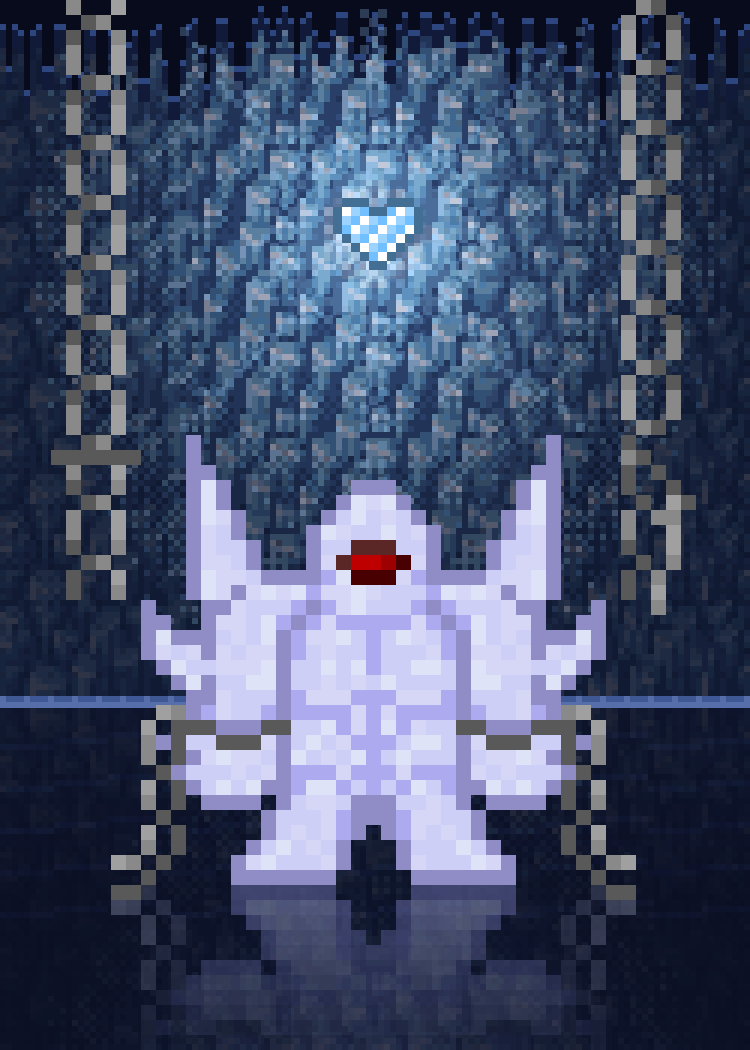
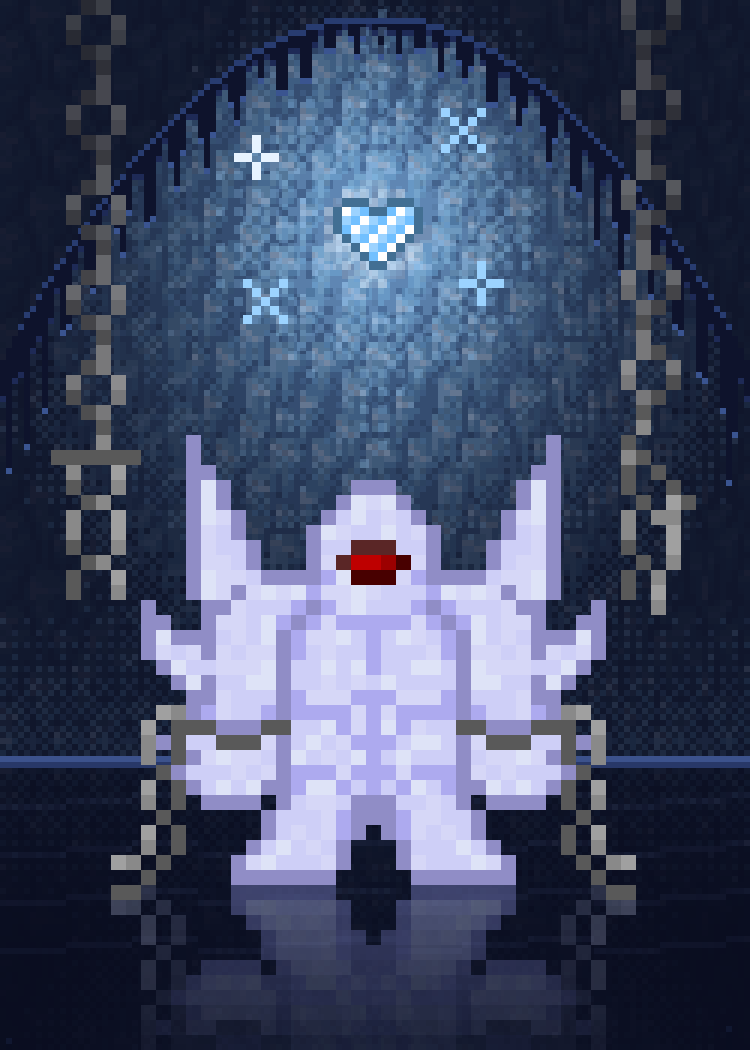
Runde 5: sechs Helden-Sleeves mit Rahmen im Shop
Heartguard (Cool Rescuer Monia), Glacier Vault (Broghan), Vials on the
Vine (Kyli), Stormdraw (Champion), Kitten Escort (Mini), Dolls in the Dark
(Alice) – jeweils die Base-Version, pixelgenau gegen die Kartenszene
geprüft, nach Review überarbeitet.

Claude-Session: https://claude.ai/code/session_01TEnvTzH2xD44R6Unjv7vDo

diff --git a/data/sleeve-proposals/runde5/generator/s02_glacier_vault.py b/data/sleeve-proposals/runde5/generator/s02_glacier_vault.py
@@ -12,12 +12,13 @@ Quellen:
   MotiveGrailWar.xcf  Ebene 476 „Ebene #139“ – Eisfels-Textur (Eisgrate aus derselben Broghan-Szene), senkrecht
                       16-px-periodisch, daraus die Gewölbewand.
   Motive.xcf          Ebene 739 „Heart of Ice“ – das Artefakt (Karte „Heart of Ice“, Sichtbar Ebene 736).
+  MotiveGrailWar.xcf  Ebene 506 „Ebene #390“ – Eisfunkeln (Karte „Iceage“), zwei der Funken-Sprites.
 Selbst gezeichnet: Lichtführung/Verdunklung der Eiswand, Eiszapfen, Spiegeleis-Boden mit Spiegelungen, Lichthof und
-Strahlen des Herzens, Verlängerung der beiden oberen Ketten bis zur Decke (Kettenglieder im Muster der Figur).
+Lichtsäule des Herzens, Verlängerung der beiden oberen Ketten bis zur Decke (Kettenglieder im Muster der Figur).
 
 Skalierung (Tiefenebenen):
   Hintergrund (Eiswand, Eiszapfen, Spiegeleis hinten)       – 2×-Raster (125×175)
-  Mittelgrund (Heart of Ice mit Lichthof und Strahlen)      – 3×-Raster (84×117)
+  Mittelgrund (Heart of Ice, Lichthof, Lichtsäule, Funkeln) – 3×-Raster (84×117)
   Vordergrund (Broghan, Ketten, seine Spiegelung, Boden)    – 5×-Raster (51×71, um 3 px nach links versetzt,
                                                              damit Broghans Symmetrieachse mittig liegt)
 """
@@ -60,66 +61,73 @@ def comp(dst, src_rgba, k, ox=0, oy=0):
 # ================================================================== Hintergrund 2× (125×175)
 W2, H2 = 125, 175
 HX, HY = 62.5, 39.0           # Herzmitte im 2×-Raster (125, 78 im 250er-Raster)
-HOR = 117                     # Horizont: Wand trifft Spiegeleis (y 234)
-T = ice_texture()
+HOR = 126                     # Horizont: Wand trifft Spiegeleis (y 252, auf Hüfthöhe hinter Broghan)
+T = ice_texture().astype(float)
+T = T.mean((0, 1)) + (T - T.mean((0, 1))) * 0.45          # ruhigere Wand: Kontrast der Kristalle gedämpft
 tex = np.tile(T[:, 96:96 + W2], (H2 // 16 + 2, 1, 1))[:H2]
 bg = np.zeros((H2, W2, 4), np.uint8); bg[..., 3] = 255
 
-NAVY = np.array((10, 14, 34))
+NAVY = np.array((9, 12, 30))
+
+
+def arch(x):
+    """Unterkante der Gewölbedecke (Spitzbogen um das Herz)."""
+    t = abs(x + 0.5 - HX) / HX
+    return 4 + 58 * t ** 2.0
 
 
 def light(x, y):
-    d = math.hypot((x + 0.5 - HX) / 1.0, (y + 0.5 - HY) / 1.15)
-    L = max(0.0, 1 - d / 78.0) ** 1.6
-    return L
+    d = math.hypot((x + 0.5 - HX) / 1.0, (y + 0.5 - HY) / 1.25)
+    return max(0.0, 1 - d / 74.0) ** 1.7
 
 
 for y in range(HOR):
     for x in range(W2):
-        L = light(x, y)
-        # untere Wandzone etwas heller (Gegenlicht vom Spiegeleis)
-        L += 0.10 * max(0, (y - 80) / 37)
-        f = 0.16 + 0.95 * L
-        q = math.floor(f * 6 + BAY[y % 4, x % 4] - 0.5) / 6
-        q = min(max(q, 0.12), 1.05)
-        c = tex[y, x].astype(float)
-        col = NAVY * (1 - q) + c * q
+        L = light(x, y) + 0.07 * max(0, (y - 95) / 31)       # Gegenlicht vom Spiegeleis am Wandfuß
+        f = 0.14 + 1.0 * L
+        if y < arch(x): f *= 0.35                             # Decke liegt im Schatten
+        q = math.floor(f * 10 + BAY[y % 4, x % 4] - 0.5) / 10
+        q = min(max(q, 0.10), 1.05)
+        col = NAVY * (1 - q) + tex[y, x] * q
         bg[y, x, :3] = np.clip(col, 0, 255)
 
-# Eiszapfen an der Gewölbedecke (Silhouetten mit heller Kante)
-top = np.zeros(W2, int)
+# Eiszapfen an der Bogenkante (in der Mitte kurz, zu den Seiten länger)
 x = 0
 while x < W2:
-    w = rnd.choice((3, 4, 5, 6))
-    ln = rnd.choice((4, 6, 8, 10, 13)) + (6 if abs(x - 62) > 34 else 0)
+    w = rnd.choice((3, 4, 5))
+    e = arch(x + w / 2)
+    ln = int(3 + e * 0.30 + rnd.choice((0, 2, 4, 7)))
     for i in range(w):
         xx = x + i
         if xx >= W2: break
         t = abs(i - (w - 1) / 2) / (w / 2)
-        top[xx] = int(ln * (1 - t) + 2)
+        yb = int(arch(xx) + ln * (1 - t))
+        for y in range(0, yb):
+            if y >= arch(xx) - 1 or y < arch(xx):
+                if y >= int(arch(xx)) - 1:
+                    bg[y, xx, :3] = (14, 19, 44)
+        if 0 < yb < H2:
+            bg[yb - 1, xx, :3] = (58, 84, 144) if t < 0.5 else (30, 42, 86)   # Glanzspitze
     x += w
-for x in range(W2):
-    for y in range(0, top[x] + 3):
-        bg[y, x, :3] = (8, 11, 28) if y < top[x] else (18, 26, 58)
-    if 0 < top[x] < H2: bg[top[x] - 1, x, :3] = (46, 70, 128)       # Glanzkante
+for x in range(W2):                                           # Bogenkante: feiner Glanzsaum
+    y = int(arch(x)) - 1
+    if 0 <= y < H2 and light(x, y) > 0.05: bg[y, x, :3] = (40, 60, 112)
 
 # Spiegeleis: Wand gespiegelt, abgedunkelt, mit waagerechten Schlieren
 for y in range(HOR, H2):
     k = y - HOR
     sy = HOR - 1 - k
     for x in range(W2):
-        c = bg[max(sy, 0), x, :3].astype(float) if sy >= 0 else NAVY
-        fade = 0.55 - 0.012 * k
-        col = NAVY * (1 - max(fade, 0.18)) + c * max(fade, 0.18)
-        # glatte Bänder
-        if (k + (x // 9) % 3) % 7 == 0 and k < 40: col = col * 1.18
+        c = bg[max(sy, 0), x, :3].astype(float)
+        fade = max(0.5 - 0.011 * k, 0.16)
+        col = NAVY * (1 - fade) + c * fade
+        if (k + (x // 11) % 3) % 8 == 0 and 2 < k < 36: col = col * 1.15 + 4
         bg[y, x, :3] = np.clip(col, 0, 255)
-# Horizontkante: dünner heller Saum (Schneerand am Wandfuß)
+# Wandfuß: dünner Schneesaum, nur im Lichtkegel hell
 for x in range(W2):
     L = light(x, HOR)
-    c = (150, 176, 226) if L > 0.18 else (86, 110, 170)
-    bg[HOR, x, :3] = c
-    bg[HOR - 1, x, :3] = (62, 88, 150) if (x % 4) else c
+    bg[HOR, x, :3] = (118, 146, 204) if L > 0.12 else (60, 82, 140)
+    bg[HOR + 1, x, :3] = (40, 56, 104)
 
 # ================================================================== Mittelgrund 3× (84×117)
 W3, H3 = 84, 117
@@ -131,19 +139,23 @@ for y in range(H3):
         dx, dy = x + 0.5 - hx3, y + 0.5 - hy3
         d = math.hypot(dx, dy * 1.05)
         a = 0.0
-        if d < 15: a = max(a, 0.55 * (1 - d / 15) ** 1.2)
-        # vier weiche Strahlen (diagonal + senkrecht)
-        ang = math.atan2(dy, dx)
-        for base in (math.pi / 2, -math.pi / 2, math.pi / 4, 3 * math.pi / 4, -math.pi / 4, -3 * math.pi / 4):
-            da = abs((ang - base + math.pi) % (2 * math.pi) - math.pi)
-            wdt = 0.07 if base in (math.pi / 2, -math.pi / 2) else 0.05
-            if da < wdt and 6 < d < 34: a = max(a, 0.28 * (1 - d / 34))
+        if d < 19: a = 0.30 * (1 - d / 19) ** 0.8          # weiter Lichthof
+        if d < 9: a = max(a, 0.62 * (1 - d / 9) ** 0.7)     # heller Kern
+        # zwei breite, weiche Lichtbahnen nach oben/unten (Säule aus Kaltlicht)
+        if abs(dx) < 2.2 - d * 0.02 and 8 < d < 30: a = max(a, 0.22 * (1 - d / 30))
         if a <= 0: continue
         q = math.floor(a * 4 + BAY[y % 4, x % 4]) / 4
         if q <= 0: continue
         col = CY1 if d > 6 else CW
         mid[y, x, :3] = col
         mid[y, x, 3] = int(255 * min(q, 0.75))
+# Eisfunkeln um das Herz (Funken-Sprites aus „Iceage“, MotiveGrailWar Ebene 506)
+sparks = parts(compose('MotiveGrailWar', [506]), dil=0)
+plus, cross = sparks[0], sparks[1]
+for (sp, dx, dy, col) in [(plus, -13, -9, CW), (cross, 10, -12, CY1), (plus, 12, 5, CY1), (cross, -12, 7, CY1)]:
+    y0, x0 = int(hy3 + dy - 2), int(hx3 + dx - 2)
+    mm = sp[..., 3] > 0
+    mid[y0:y0 + 5, x0:x0 + 5][mm] = list(col) + [255]
 # Herz selbst
 hy0, hx0 = int(round(hy3 - 4)), int(round(hx3 - 5))
 m = heart[..., 3] > 0
@@ -158,25 +170,30 @@ FEET = BY + 30                        # Sprite-Zeile 29 = Fußsohle, Zeile 30 = 
 
 # Kettenverlängerung nach oben (Glieder im Muster der Figur: Seitenschienen, Einschnürung alle 4 Zeilen)
 B_, C_, D_ = (89, 89, 89), (137, 137, 137), (160, 160, 160)
-LINK = [  # 4 Zeilen, Spalten 0..3 (entspricht Sprite-Spalten 1..4 links oben)
+LINK = [  # von unten nach oben: flaches Glied (Oval, 4 breit) + hochkant stehendes Glied (1 Spalte)
     [None, B_, C_, None],
-    [C_, None, None, D_],
-    [C_, None, None, D_],
     [B_, None, None, C_],
+    [C_, None, None, D_],
+    [None, B_, C_, None],
+    [None, None, C_, None],
+    [None, None, B_, None],
 ]
 
 
-def chain_up(col0, y_bottom, mirror=False):
+def chain_up(col0, y_bottom, mirror=False, start=0):
     for k, y in enumerate(range(y_bottom, -1, -1)):
-        row = LINK[k % 4]
+        row = LINK[(k + start) % 6]
         if mirror: row = row[::-1]
+        # nach oben ins Dunkel des Gewölbes abgedunkelt (je Glied eine Stufe)
+        f = max(0.40, 1.0 - 0.13 * ((k + start) // 6))
         for i, c in enumerate(row):
             if c is not None and 0 <= y < H5:
-                fg[y, col0 + i, :3] = c; fg[y, col0 + i, 3] = 255
+                col = np.array(c) * f + np.array((14, 20, 44)) * (1 - f) * 0.6
+                fg[y, col0 + i, :3] = np.clip(col, 0, 255); fg[y, col0 + i, 3] = 255
 
 
-chain_up(BX + 1, BY + 0)             # links: über dem Querriegel (Sprite-Zeile 1) weiter nach oben
-chain_up(BX + 38, BY - 1, mirror=True)   # rechts: über dem obersten Glied (Sprite-Zeile 0)
+chain_up(BX + 1, BY + 0, start=4)             # links: über dem Querriegel (Sprite-Zeile 1) weiter nach oben
+chain_up(BX + 38, BY - 1, mirror=True, start=4)   # rechts: über dem obersten Glied (Sprite-Zeile 0)
 
 # Spiegelung im Eis (unter der Fußlinie, gespiegelt, blau abgedunkelt, halbdurchsichtig)
 ref = broghan[:30][::-1]

diff --git a/data/sleeve-proposals/runde5/notes.md b/data/sleeve-proposals/runde5/notes.md
@@ -3,3 +3,4 @@
 04 | Stormdraw | Champion, the Stormbringer | Champion steht auf einer Hügelkuppe im Gewitter und zeigt mit ausgestrecktem Arm auf den Rüssel seines Tornados (wie im Kartenbild links neben ihm); gebogene Windstreifen laufen spiralig um den Trichter und reißen fünf Karten beider Spieler (lila Heldenkarten, rot, blau, gold) gestaffelt hinauf in die eingedrehte Mutterwolke – sein Kartentext „beide werfen ab und ziehen neu“; rechts ein ferner Blitz, links der Fluss aus der Kartenszene | Himmel/Wolken/Regen/Blitz/Ebene/Fluss 2×, Tornado (96×150)/Karten (24×33)/Windstreifen/Staub/Hügel 3×, Champion 5× (140×155) | MotiveJapan 121 „Champion“ + 119 + 120 (Schwert „The Stormblade“, geprüft gegen Sichtbar #33/#38), MotiveJapan 112 (Tornado der Karte, falsch benannt „Gate to the Armory“), Motive 584 (Spielkarten aus „Card Game Player Inya“) | Rahmen: twist/silver/amethyst/cyan
 03 | Vials on the Vine | Kyli, the Deceptive Sapling | Nachts steht Kyli (Base) groß im kerzenbeleuchteten Opferring auf der Steinlichtung ihrer Kartenszene, ihr Zweig-Geweih zeichnet sich vor einem fahlen Vollmond ab; aus den drei Geweihspitzen wachsen Ranken, die drei zurückgeholte Tränke (grün, türkis, rot) wie Früchte in die Luft halten (Occultism-Opfer → gelöschte Potions werden Biomancy-Tokens); zwei gespiegelte Augenbäume mit rotem Auge und Zahnmaul aus ihrem Kartenbild rahmen die Szene | Himmel/Sterne/Mond 2×; Steinboden, Ringschein, Augenbäume 3×; Kyli (120×165), Tränke, Ranken, Ring, Kerzen 5× | MotiveGrailWar 149 „Kyli“ (einzige Kyli-Ebene, = Sichtbar #7 Lage 237,48, 0 px Abweichung), 150 „Ebene #431“ (Augenbaum derselben Szene; nicht 160 „Occultism“, weicht ab), 161 (Steinboden-Kachel), 159 (Kerze aus dem Ritualkreis); MotiveSteamDwarfs 134 „Biomancy“ (Korkflaschen); Himmel, Mond, Ring ohne Pentagramm, Ranken selbst gezeichnet | Rahmen: bone/ebony/emerald/ruby
 06 | Dolls in the Dark | Alice, the Puppeteer Girl | Nachts in Alices dunklem Zimmer im Herrenhaus: Alice steht groß und frontal in der Bildmitte (Gesicht bei ~43 % der Höhe) auf dem violetten Läufer, der vor ihr bis zur Goldborte weiterläuft; Arme ausgebreitet, an ihren Fäden (Originalpixel, 1 px dunkel/hell, halbtransparent, von den Händen zu den Puppenköpfen) sitzen ihre zwei Puppen; ihr violetter Magieschein erhellt Säulen, Bett und ihr eigenes Porträt an der Wand, ringsum glühen in der Finsternis rote Puppenaugen (zwei Puppen auf den Säulenkapitellen neben dem Porträt, Geisterpuppe im Spiegel, lauernde Puppe im offenen Schrank, Puppe auf dem Schrank, zwei an den Säulenfüßen), rechts glimmt der Ofen | Zimmer + Hintergrundpuppen + Licht 2× (125×175), Alice + 2 Puppen + Fäden + Schatten 5× (50×70) | MotiveBritain: Ebene 8 „Alice #6“ (Alice-Gruppe x236–275/y303–330, pixelgleich mit Szene 5 „Sichtbar #53“, Lage 218,288; Geist, Hintergrundpuppen), 60 (Zimmer), 59 (Läufer, verlängert), 56 (Alice-Porträt, Kristallkugel) | Rahmen: ornate/gothic/amethyst/ruby
+02 | Glacier Vault | Broghan, the Frozen Guardian of the North | Broghan steht in Ketten frontal im Gewölbe unter dem Gletscher und bewacht das Heart of Ice, das hinter ihm im Lichthof über dem Spiegeleis schwebt (er selbst kann nicht erfrieren – das Herz trägt dieselbe Gabe); die oberen Ketten laufen hinauf ins Dunkel der Decke, Eiszapfen-Spitzbogen rahmt das Herz, Broghan spiegelt sich im Eisboden, sein rotes Auge ist das einzige warme Licht | Broghan, Ketten, Spiegelung 5× (Raster um 3 px versetzt, Achse mittig); Heart of Ice, Lichthof, Funkeln 3×; Eiswand, Eiszapfen, Spiegeleis 2× | MotiveGrailWar 472 „Broghan-Kopie“ (Base mit Ketten, geprüft gegen Sichtbar 108), 476 (Eisgrat-Textur derselben Szene), 506 (Iceage-Funkeln); Motive 739 „Heart of Ice“; Licht, Eiszapfen, Spiegeleis, Kettenverlängerung selbst gezeichnet | Rahmen: stone/ice/ruby/sapphire

diff --git a/data/sleeve-proposals/runde5/README.md b/data/sleeve-proposals/runde5/README.md
@@ -1,0 +1,15 @@
+# Sleeve-Entwürfe – Runde 5: Helden
+
+Sechs Sleeves, die jeweils einen Helden (immer die Base-Version, keine Ascended-/Skin-Varianten) in den
+Mittelpunkt stellen. Regeln: `BRIEF.md` (+ `../runde4/BRIEF.md`), Notizen je Sleeve: `notes.md`.
+Rohbilder `NN_name.png`, gerahmt in `final/`, Übersichten `00_overview.png` / `00_overview_final.png`,
+Skripte `generator/sNN_*.py`, Rahmen + Shop: `generator/frame_r5.py` mit `generator/frames_r5.json`.
+
+| Nr | Name | Held | Shop-Datei | Rahmen |
+|---|---|---|---|---|
+| 01 | Heartguard | Cool Rescuer Monia | heartguard.png | ornate/silver/rose/sapphire |
+| 02 | Glacier Vault | Broghan, the Frozen Guardian of the North | glacier-vault.png | double/ice/sapphire/ruby |
+| 03 | Vials on the Vine | Kyli, the Deceptive Sapling | vials-on-the-vine.png | bone/ebony/emerald/ruby |
+| 04 | Stormdraw | Champion, the Stormbringer | stormdraw.png | twist/silver/amethyst/cyan |
+| 05 | Kitten Escort | Cute Annoyance Mini | kitten-escort.png | card/silver/amethyst/rose |
+| 06 | Dolls in the Dark | Alice, the Puppeteer Girl | dolls-in-the-dark.png | arch/gothic/amethyst/ruby |
